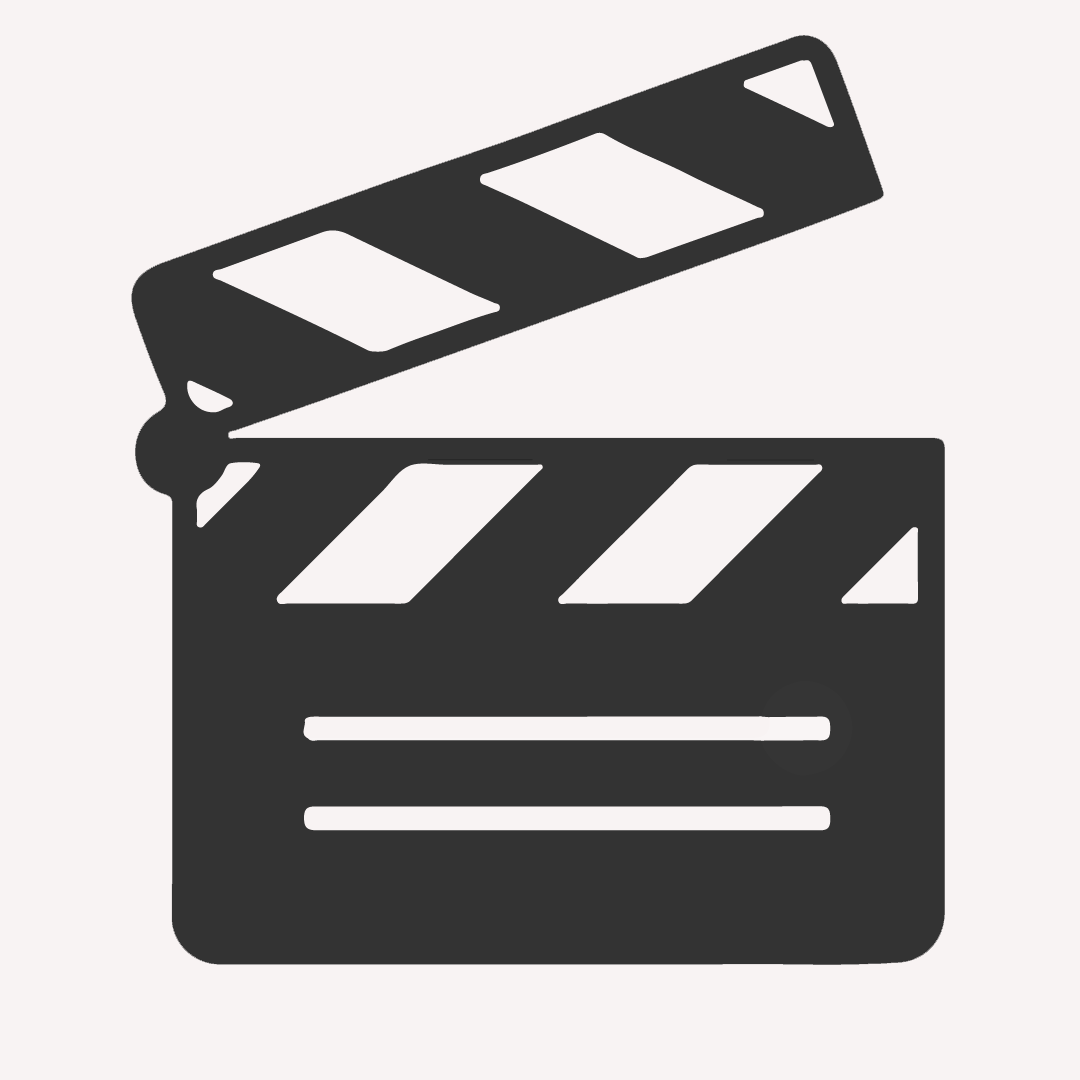
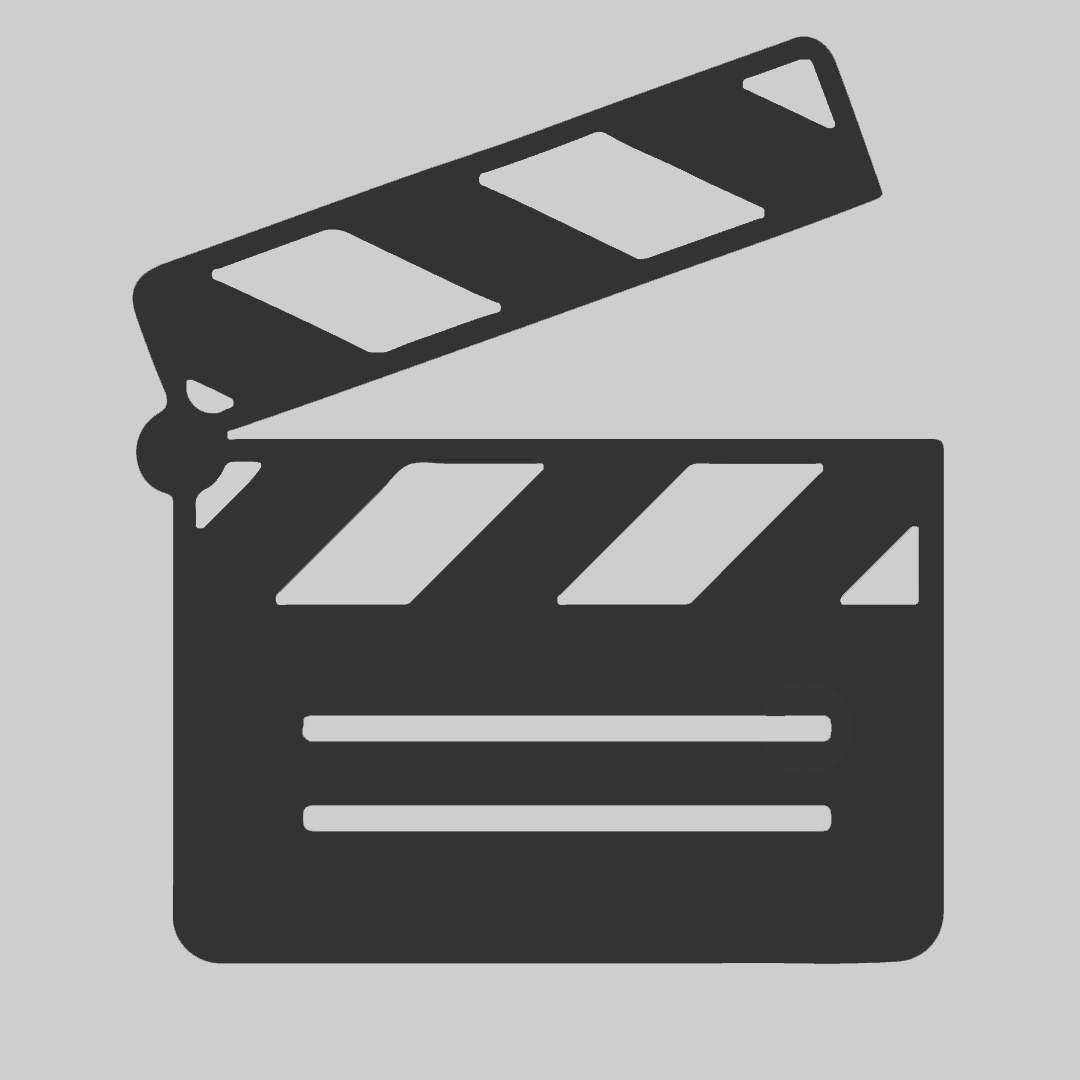
update default profile picture

diff --git a/backend/app/models/user.py b/backend/app/models/user.py
@@ -55,7 +55,7 @@ class User(db.Model):
 
     admin = Column(Boolean(), default=False) # Electus + INPHO
     hidden = Column(Boolean(), default=False) # FusknØllan och VRAQUE som inte joinat ännu måste gömmas
-    profile_picture = Column(String(256), default="/static/images/profiles/default_mickey_mouse.png")
+    profile_picture = Column(String(256), default="/static/images/profiles/clapperboard.png")
     q1 = Column(String(1024), default="")
     q2 = Column(String(1024), default="")
     q3 = Column(String(1024), default="")
